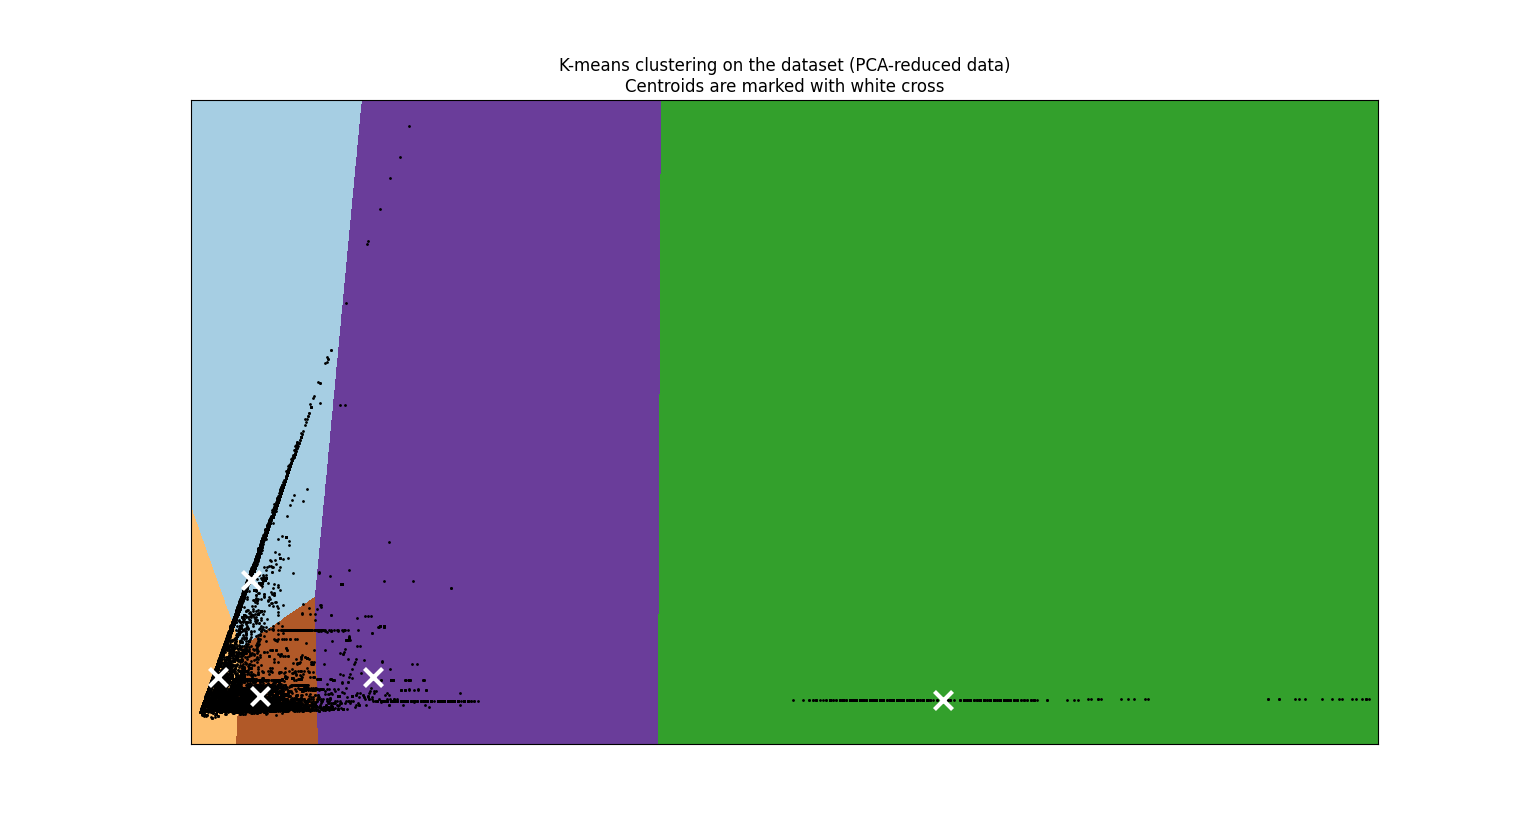
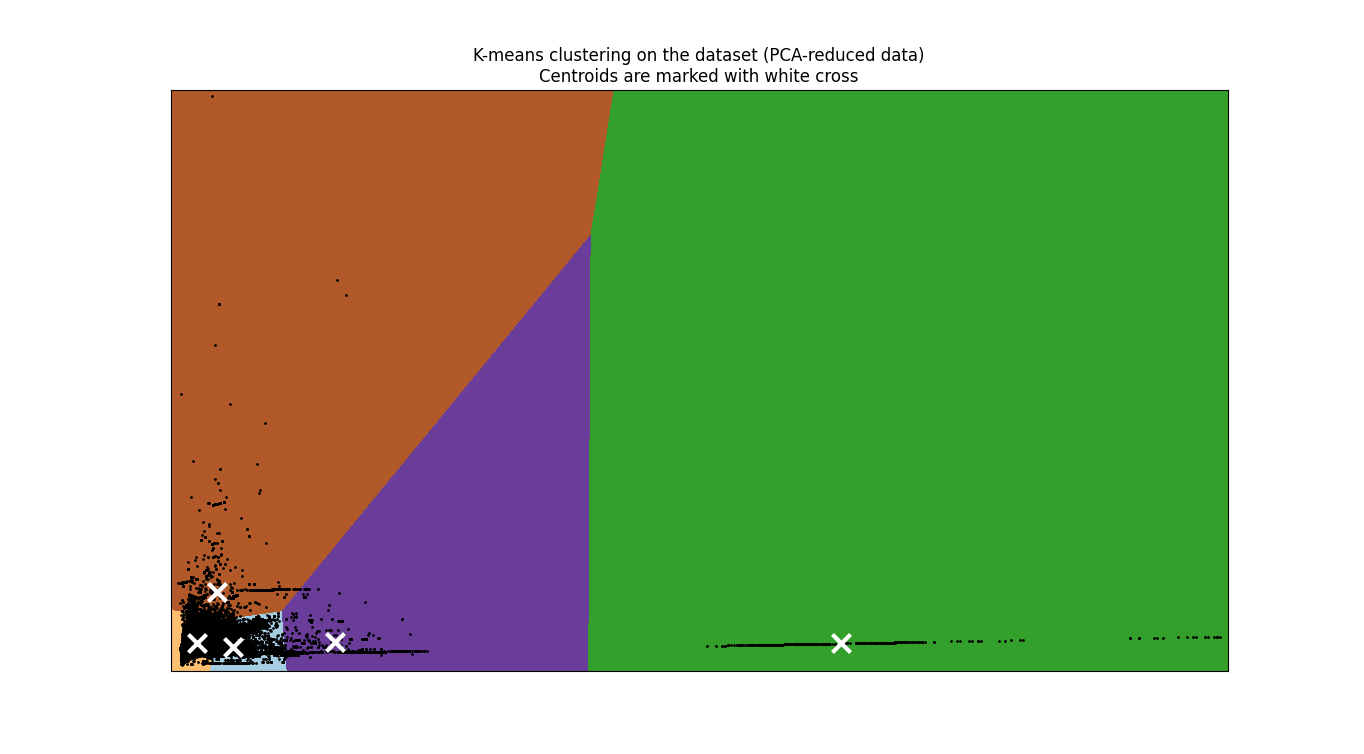
Fixed using wrong index column in dataset in kmeans_cluster_graph.py

diff --git a/tarefa_4/src/kmeans_cluster_graph.py b/tarefa_4/src/kmeans_cluster_graph.py
@@ -38,7 +38,7 @@ def kmeans_cluster_graph(csv_file, class_column_name, n_clusters=None, selected_
     """
 
     # Reads CSV file with data
-    dataset = pandas.read_csv(csv_file, index_col=0)
+    dataset = pandas.read_csv(csv_file)
 
     # Splits CSV file by chosen atributes
     if selected_att:

diff --git a/tarefa_4/README.md b/tarefa_4/README.md
@@ -12,4 +12,4 @@
     - `<csv_file>`: Path para o arquivo CSV do dataset para plotar o gráfico
     - `<class_column_name>`: nome da coluna do CSV que contém as labels das classes de cada exemplo
 - __Exemplo__:
-    - `python3 kmeans_cluster_graph.py ../../tarefa_3/dataset/FinalDataset/All_Infogain.csv class`
+    - `python3 kmeans_cluster_graph.py ../../dataset/FinalDataset/All_Infogain.csv class`
